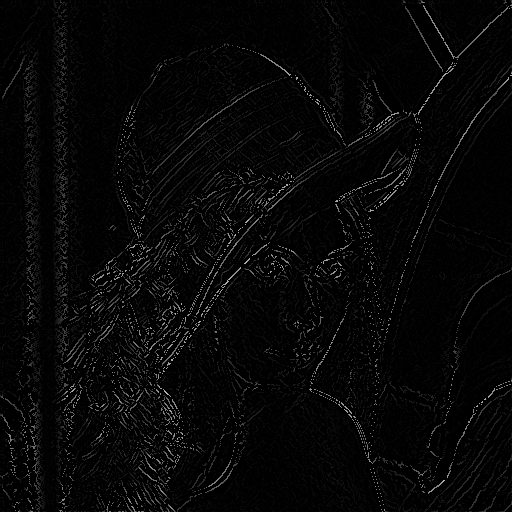
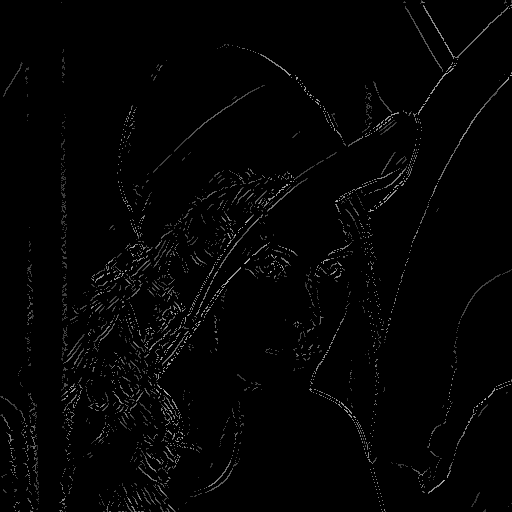
It works surprisingly well

diff --git a/app/App.cpp b/app/App.cpp
@@ -1,8 +1,8 @@
 #include <iostream>
 #include <EdgeDetection.hpp>
 
-#define MAXVAL 180
-#define MINVAL 160
+#define MAXVAL 100
+#define MINVAL 50
 
 int main(int argc, char* argv[])
 {
@@ -40,11 +40,11 @@ int main(int argc, char* argv[])
 	suppressNonMaximums(gradientIntensities, gradientDirections, suppressedIntensities);
 
 	// Threshold hystheresis
-	PixelMatrix thresheld(pixelMatrix.getWidth(), pixelMatrix.getHeight());
-	thresholdHysteresis(suppressedIntensities, MAXVAL, MINVAL, thresheld);
+	PixelMatrix threshold(pixelMatrix.getWidth(), pixelMatrix.getHeight());
+	thresholdHysteresis(suppressedIntensities, MINVAL, MAXVAL, threshold);
 
 	// Profit
-	Utility::saveImage(suppressedIntensities.toImage(), files.value().at(1).string());
+	Utility::saveImage(threshold.toImage(), files.value().at(1).string());
 
 
 	return 0;
